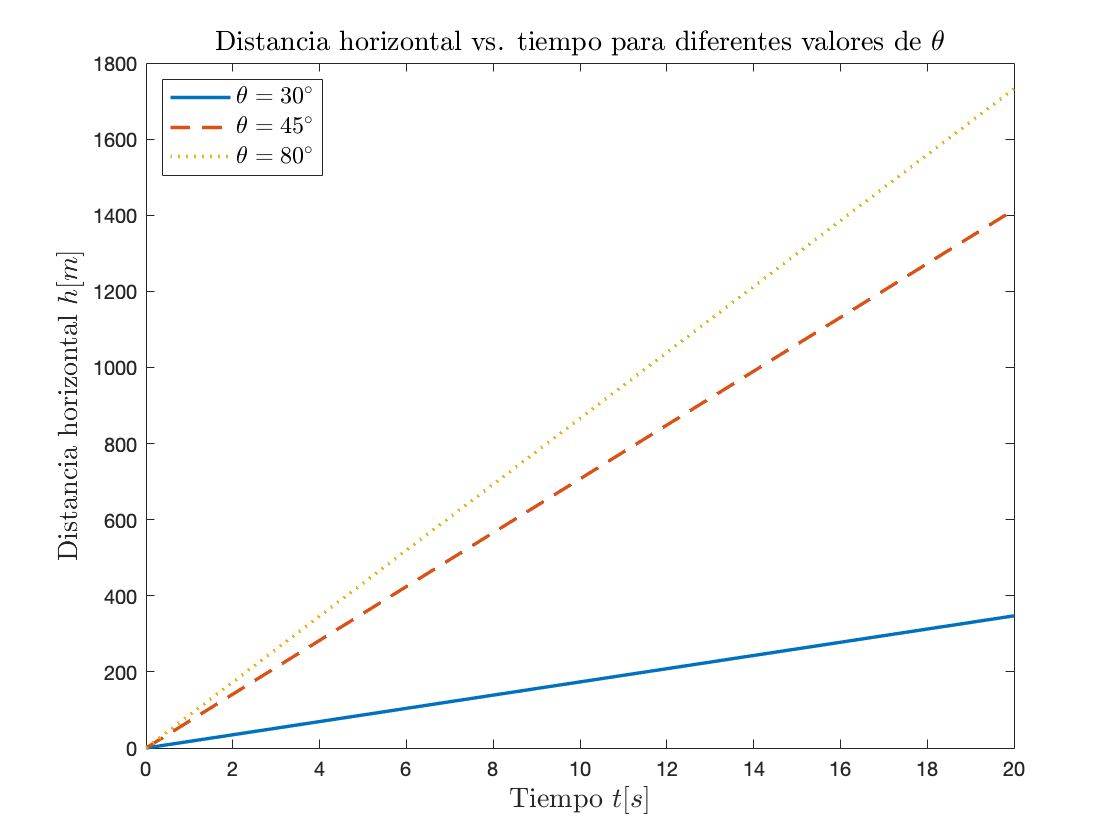
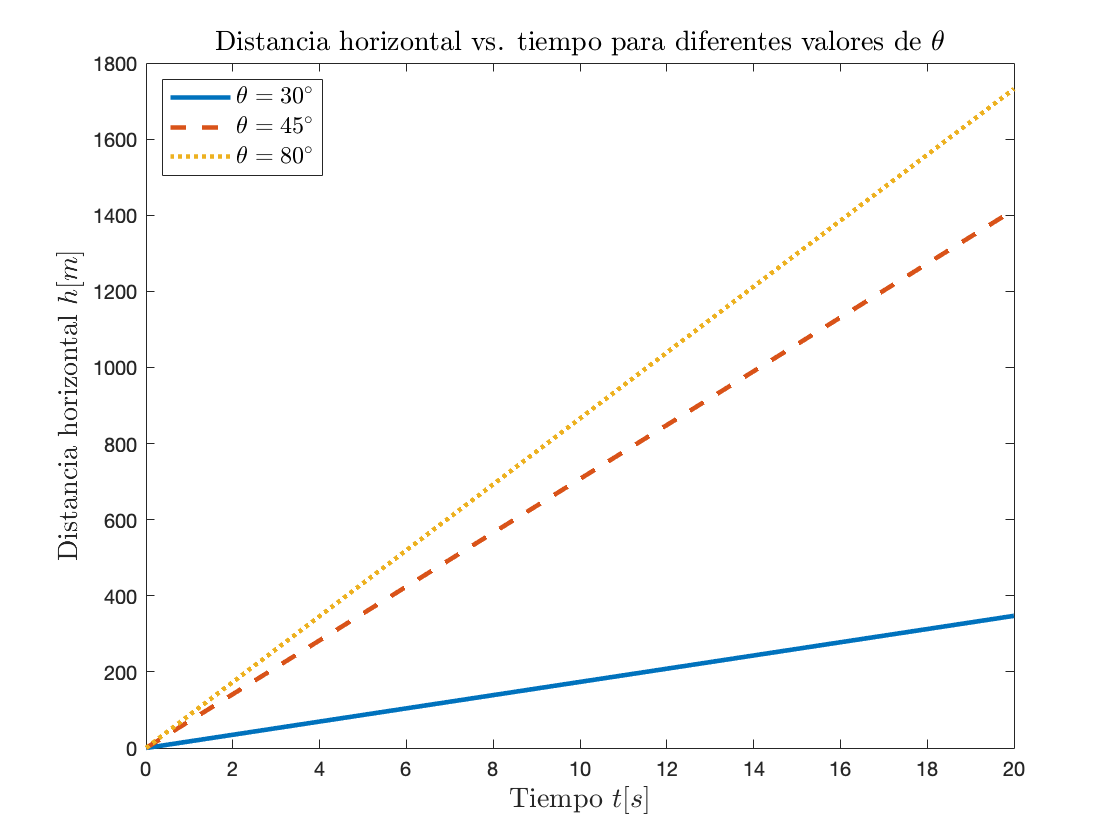
more code

diff --git a/spring-21/vi/practicas/2/codigo.m b/spring-21/vi/practicas/2/codigo.m
@@ -117,7 +117,7 @@ l = legend(vline, '$t=17.701$', 'Location', 'northwest');
 set(l, 'Interpreter', 'latex');
 set(l, 'FontSize', 12);
 axis([0,20,-300,450]);
-
+%% 
 
 % Inciso b)
 
@@ -126,6 +126,7 @@ yyaxis left;
 plot(time, y);
 yyaxis right;
 plot(time, h)
+
 %% 
 
 % Inciso c)
@@ -168,7 +169,7 @@ hline.Color = [.7 .7 .7];
 
 % 2)
 figure
-plot(time, h1, time, h2, '--', time, h3,':', 'linewidth', 1.7);
+plot(time, h1, time, h2, '--', time, h3,':', 'linewidth', 2.3);
 title('Distancia horizontal vs. tiempo para diferentes valores de $\theta$', 'Interpreter', 'latex', 'FontSize', 14);
 xlabel('Tiempo $t [s]$', 'Interpreter', 'latex', 'FontSize', 14);
 ylabel('Distancia horizontal $h [m]$', 'Interpreter', 'latex', 'FontSize', 14);
@@ -177,7 +178,7 @@ set(l, 'Interpreter', 'latex');
 set(l, 'FontSize', 12);
 
 figure
-plot(time, y1, time, y2, '--', time, y3, ':', 'linewidth', 1.7);
+plot(time, y1, time, y2, '--', time, y3, ':', 'linewidth', 2.3);
 title('Distancia vertical vs. tiempo para diferentes valores de $\theta$', 'Interpreter', 'latex', 'FontSize', 14);
 xlabel('Tiempo $t [s]$', 'Interpreter', 'latex', 'FontSize', 14);
 ylabel('Distancia vertical $y [m]$', 'Interpreter', 'latex', 'FontSize', 14);
@@ -187,7 +188,43 @@ hline.Color = [.7 .7 .7];
 l = legend('$\theta = 30^\circ$', '$\theta = 45^\circ$', '$\theta = 80^\circ$', 'Location', 'northwest');
 set(l, 'Interpreter', 'latex');
 set(l, 'FontSize', 12);
+%% 
 
+% 3)
+figure;
+t = tiledlayout(3,1);
+fontSize = 16;
+lineWidth = 1.3;
+title(t, 'Distancia vertical vs. Distancia Horizontal', 'Interpreter', 'latex', 'FontSize', fontSize);
+xlabel(t, 'Tiempo $t$ en $s$', 'Interpreter', 'latex', 'FontSize', fontSize);
+ylabel(t, 'Distancia en $m$', 'Interpreter', 'latex', 'FontSize', fontSize);
+
+nexttile;
+plot(time, h1, time, y1, 'linewidth', lineWidth);
+axis([0 20 -80 550]);
+hline = refline(0);
+hline.Color = [.6 .6 .6];
+title('$\theta=80^\circ$', 'Interpreter', 'latex');
+l = legend('Distancia horizontal', 'Distancia vertical', 'Interpreter', 'latex');
+set(l, 'Location', 'northwest');
+
+nexttile;
+plot(time, h2, time, y2, 'linewidth', lineWidth);
+axis([0 15 -120 1100]);
+hline = refline(0);
+hline.Color = [.6 .6 .6];
+title('$\theta=45^\circ$', 'Interpreter', 'latex');
+l = legend('Distancia horizontal', 'Distancia vertical', 'Interpreter', 'latex');
+set(l, 'Location', 'northwest');
+
+nexttile;
+plot(time, h3, time, y3, 'linewidth', lineWidth);
+axis([0 10.5 -100 1000]);
+hline = refline(0);
+hline.Color = [.6 .6 .6];
+title('$\theta=30^\circ$', 'Interpreter', 'latex');
+l = legend('Distancia horizontal', 'Distancia vertical', 'Interpreter', 'latex');
+set(l, 'Location', 'northwest');
 
 
 
